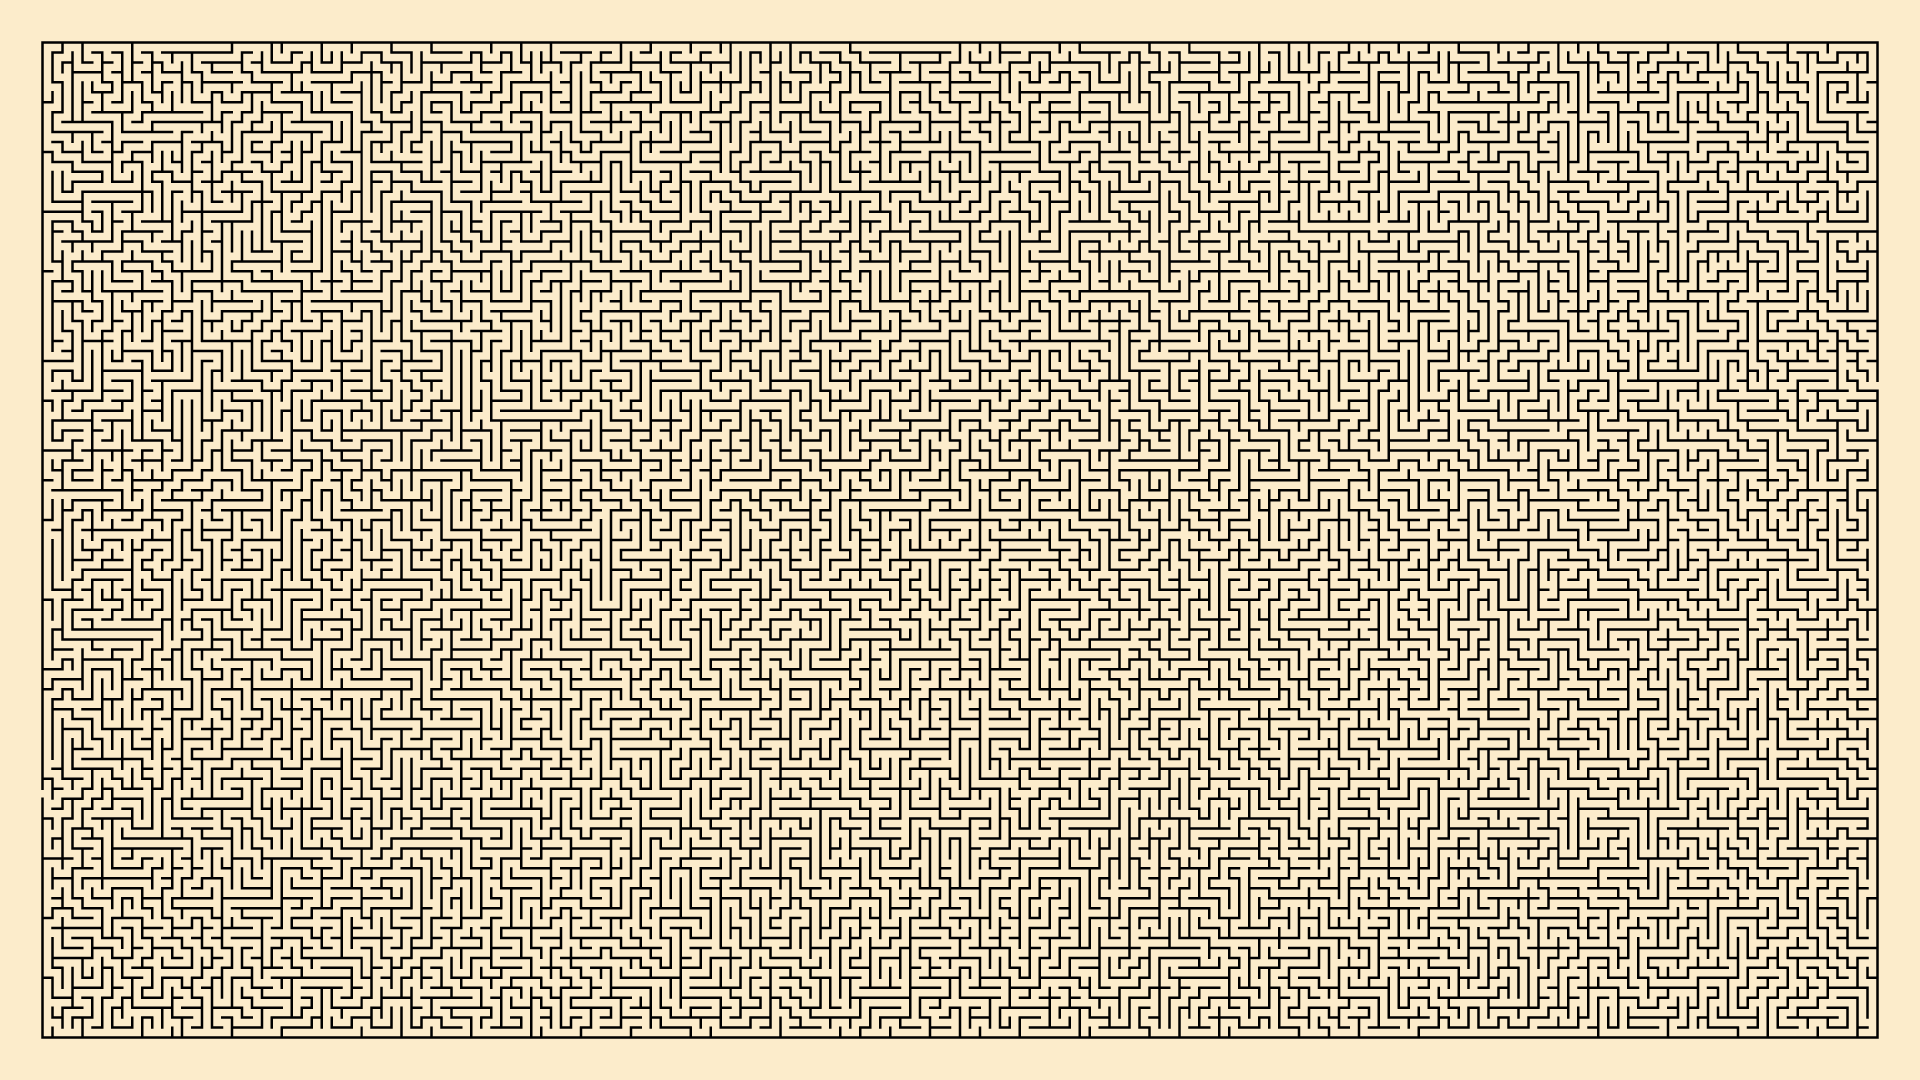
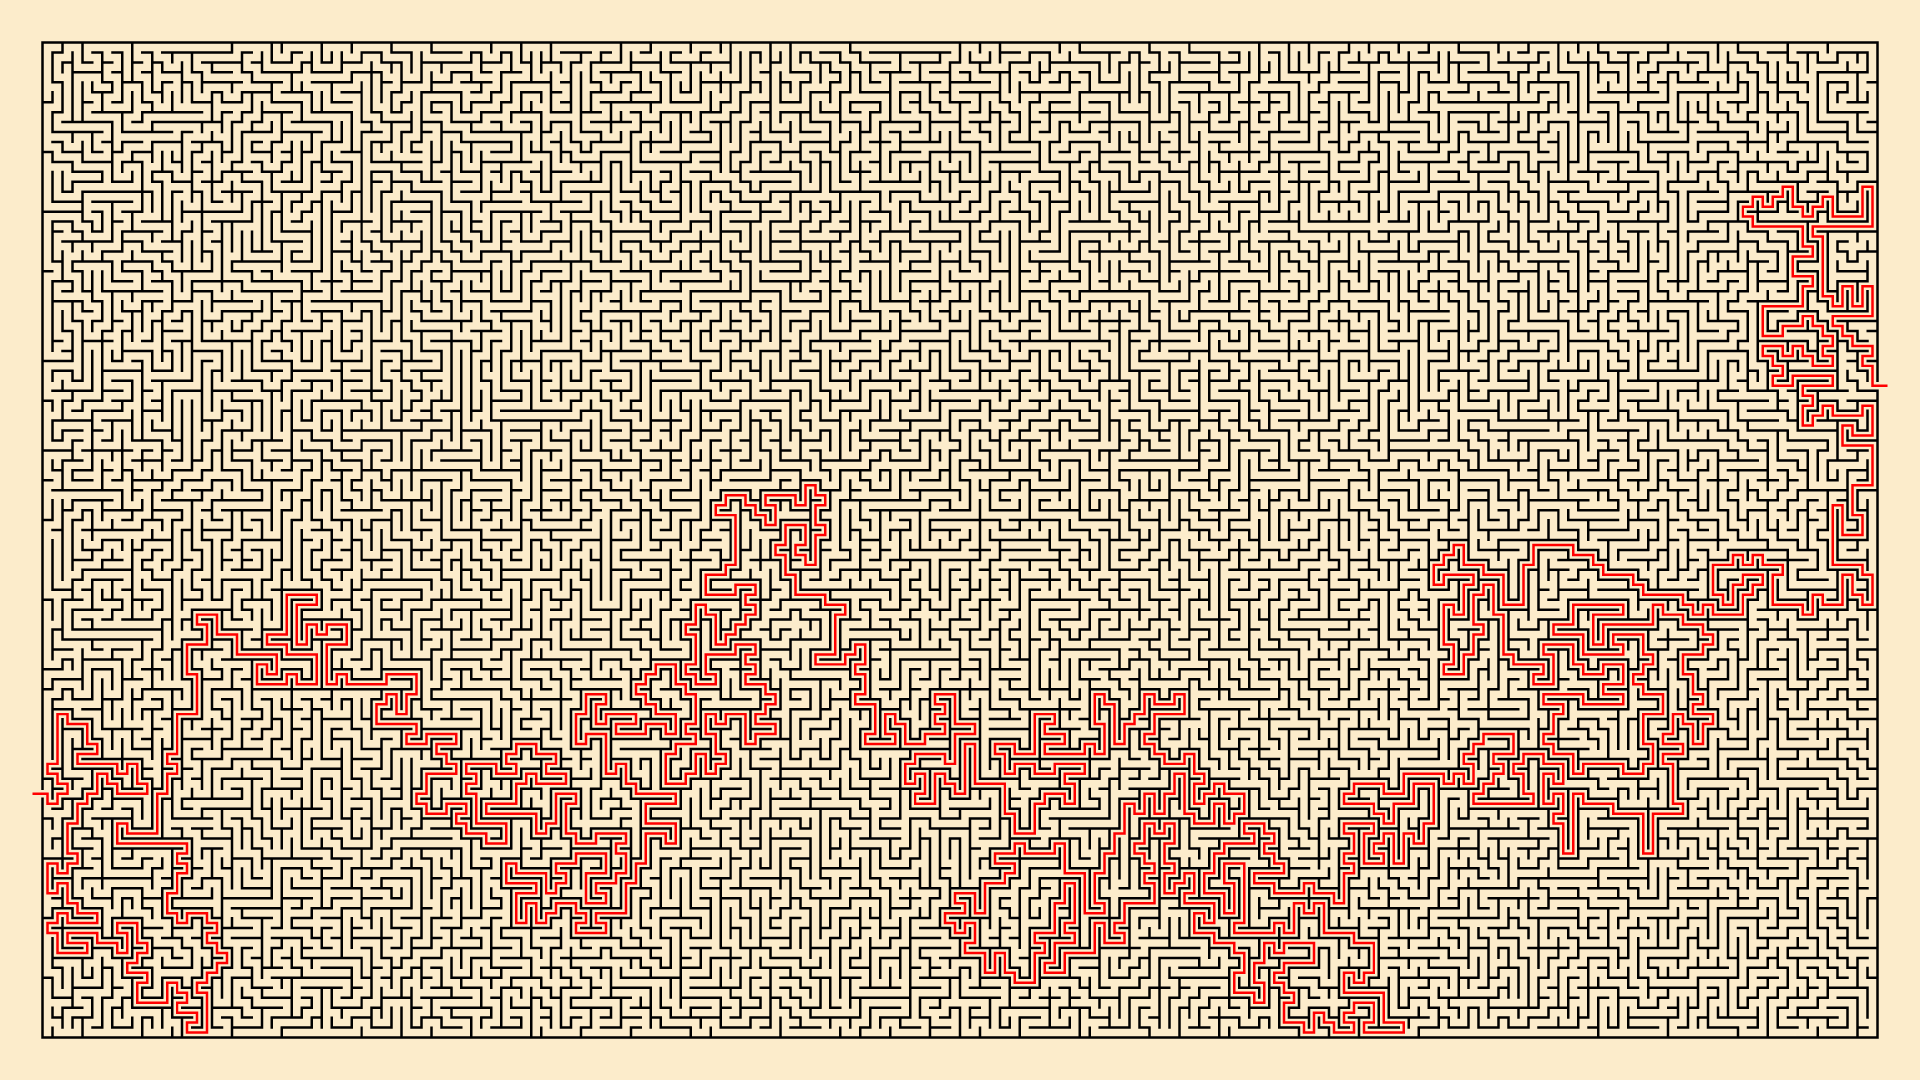
Draw maze solution as well

diff --git a/src/maze.rs b/src/maze.rs
@@ -37,6 +37,12 @@ struct Position(usize, usize);
 
 struct Wall(Position, Position);
 
+impl From<(usize, usize)> for Position {
+    fn from(point: (usize, usize)) -> Self {
+        Position(point.0, point.1)
+    }
+}
+
 impl Wall {
     fn as_segment(&self, half_stroke: f32) -> Option<Segment> {
         let Wall(a, b) = self;
@@ -86,6 +92,7 @@ struct Maze {
     width: usize,
     height: usize,
     data: Vec<Cell>,
+    path: Vec<Position>,
 }
 
 impl Maze {
@@ -94,9 +101,11 @@ impl Maze {
             width,
             height,
             data: vec![Cell::blank(); ((width * 2 + 1) * (height * 2 + 1)) as usize],
+            path: Vec::new(),
         }
         .initialise_maze(&mut rng)
         .collapse_entry_and_exit(&mut rng)
+        .solve()
     }
 
     /// Uses the Randomized depth-first search found on wikipedia (https://en.wikipedia.org/wiki/Maze_generation_algorithm)
@@ -208,6 +217,72 @@ impl Maze {
         {
             cell.cell_type = CellType::Floor;
         }
+
+        self
+    }
+
+    fn any_unvisted_neighboor(&self, position: Position) -> Option<Position> {
+        let mut unvisited: Vec<Position> = Vec::with_capacity(4);
+        unvisited.push(Position(position.0, position.1 + 1));
+        if position.1 > 0 {
+            unvisited.push(Position(position.0, position.1 - 1));
+        };
+        unvisited.push(Position(position.0 + 1, position.1));
+        if position.0 > 0 {
+            unvisited.push(Position(position.0 - 1, position.1));
+        }
+
+        unvisited.retain(|&Position(x, y)| match self.get_any_cell(x, y) {
+            Some(cell) => !cell.visited && cell.cell_type == CellType::Floor,
+            None => false,
+        });
+
+        match unvisited.len() {
+            0 => None,
+            _ => Some(unvisited.first().unwrap().clone()),
+        }
+    }
+
+    fn unvisit_all(&mut self) {
+        for cell in self.data.iter_mut() {
+            cell.visited = false;
+        }
+    }
+
+    fn solve(mut self) -> Self {
+        self.path.clear();
+        let height = self.height * 2 + 1;
+        let width = self.width * 2 + 1;
+        self.unvisit_all();
+
+        let mut start: Option<Position> = None;
+        for y in 0..height {
+            if let Some(cell) = self.get_any_cell(0, y) {
+                if cell.cell_type == CellType::Floor {
+                    start = Some(Position(0, y));
+                    break;
+                }
+            }
+        }
+        if start == None {
+            return self;
+        }
+
+        let mut current = start.unwrap();
+        self.path.push(current);
+        self.get_any_cell_mut(current.0, current.1).unwrap().visited = true;
+
+        while current.0 < width - 1 {
+            current = self.path.pop().unwrap();
+            if let Some(neighboor) = self.any_unvisted_neighboor(current) {
+                self.path.push(current);
+                if let Some(cell) = self.get_any_cell_mut(neighboor.0, neighboor.1) {
+                    cell.visited = true;
+                    self.path.push(neighboor);
+                }
+            }
+        }
+        self.path.push(current);
 
         self
     }
@@ -336,6 +411,20 @@ impl Drawable for Maze {
             path.line_to(segment.b());
         }
         canvas.draw_path(&path, &paint);
+
+        // Draw solution.
+        if let (Some(start), Some(end)) = (self.path.first(), self.path.last()) {
+            let mut path = Path::new();
+            path.move_to((start.0 as f32 - 2.0, start.1 as f32));
+
+            for position in &self.path[..] {
+                path.line_to((position.0 as f32, position.1 as f32));
+            }
+            path.line_to((end.0 as f32 + 2.0, end.1 as f32));
+
+            paint.set_color(Color::RED);
+            canvas.draw_path(&path, &paint);
+        }
 
         canvas.restore();
     }
